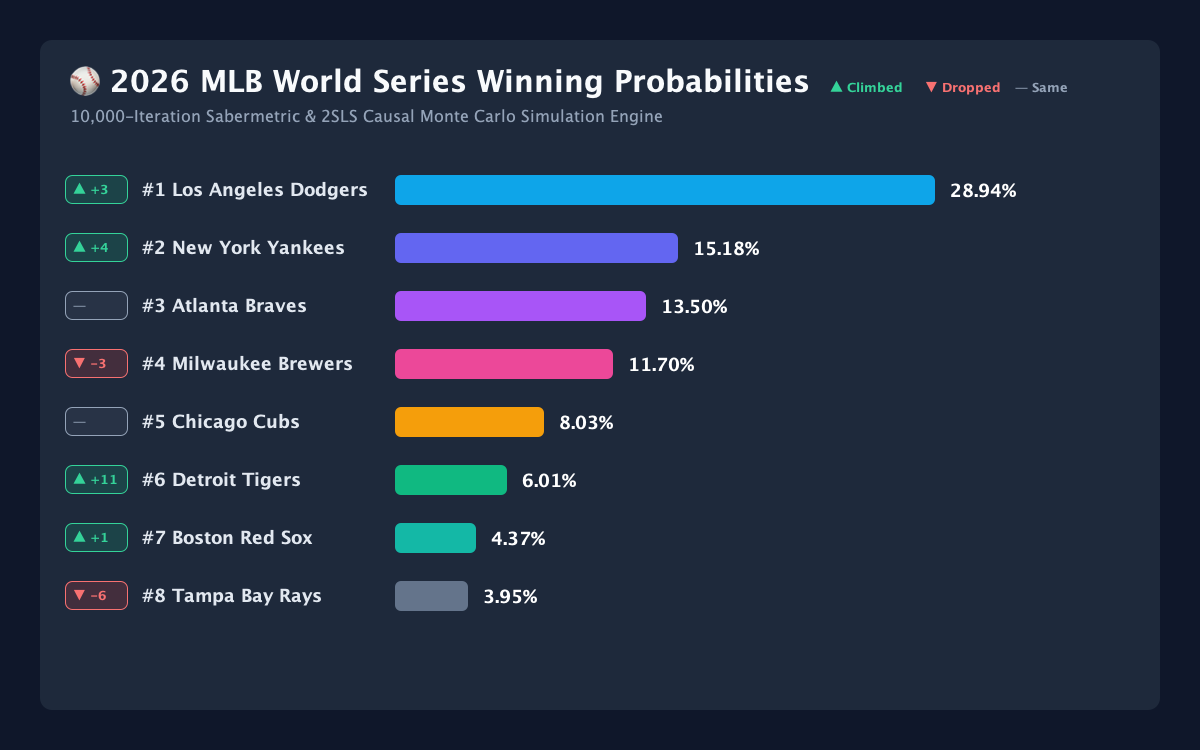
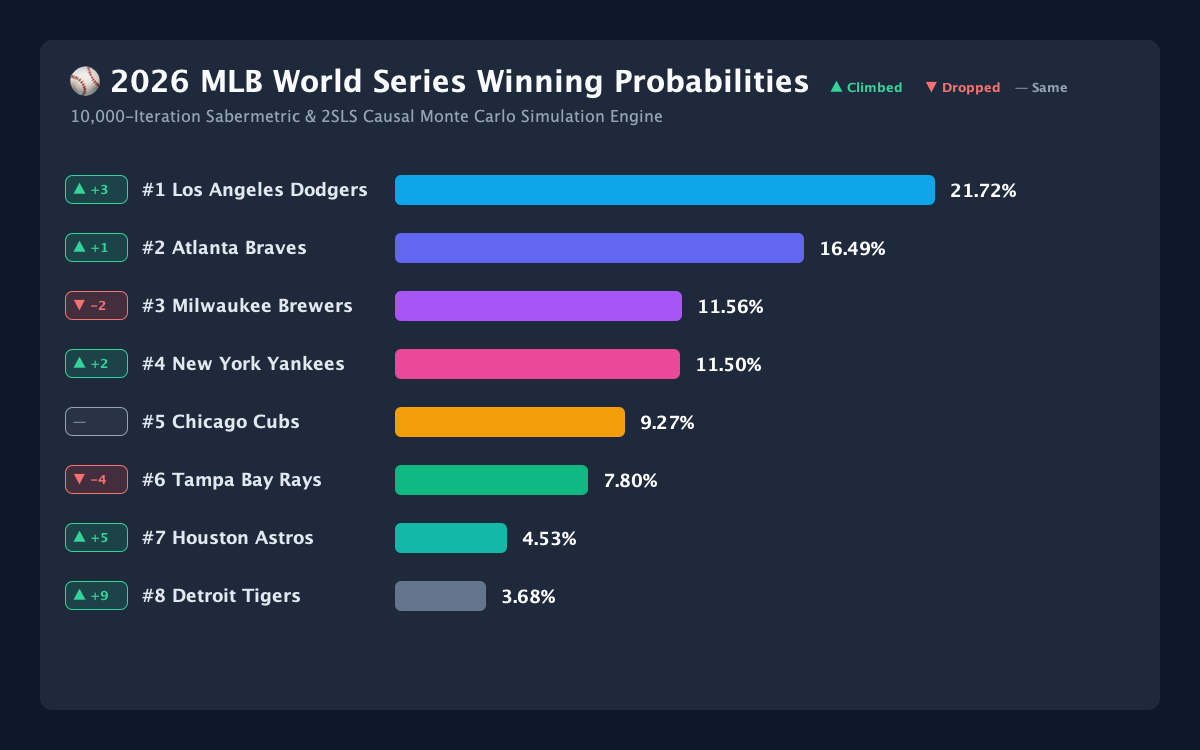
fix(model): implement rest-of-season (ROS) win anchoring, eliminate model drift, update recency weighting & visual charts

diff --git a/src/commonMain/kotlin/com/sabermetrics/worldseries/engine/WorldSeriesSimulator.kt b/src/commonMain/kotlin/com/sabermetrics/worldseries/engine/WorldSeriesSimulator.kt
@@ -84,11 +84,17 @@ object WorldSeriesSimulator {
         val nlTeams = teams.filter { it.league == League.NL }
 
         for (iter in 0 until iterations) {
-            // Simulate 162-game season variation around Pythagorean wins
+            // Rest-of-Season (ROS) anchored 162-game season simulation.
+            // Locks in actual empirical wins to-date + projects remaining games via recency-weighted quality.
             val seasonQuality = teams.associate { t ->
-                val pythW = t.pythagoreanWinsExpected
-                val simWins = (pythW + random.nextDouble(-5.0, 5.0)).coerceIn(50.0, 115.0)
-                t.teamId to simWins
+                val remainingGames = (162 - t.gamesPlayed).coerceAtLeast(0)
+                val rosWinPct = t.recencyWeightedWinPct
+                var simRemWins = 0
+                for (g in 0 until remainingGames) {
+                    if (random.nextDouble() < rosWinPct) simRemWins++
+                }
+                val totalWins = (t.wins + simRemWins).toDouble()
+                t.teamId to totalWins
             }
 
             for (t in teams) {

diff --git a/src/commonMain/kotlin/com/sabermetrics/worldseries/model/SabermetricModels.kt b/src/commonMain/kotlin/com/sabermetrics/worldseries/model/SabermetricModels.kt
@@ -169,10 +169,10 @@ data class MlbTeam(
 
     /**
      * Exponentially Recency-Weighted Win Expectancy with Bayesian backoff smoothing.
-     * Combines Pythagorean expectation (50%), full-season win % (35%), and last 10 games trend (15%).
+     * Combines Pythagorean expectation (45%), full-season win % (35%), and recent hot/cold form (20%).
      */
     val recencyWeightedWinPct: Double get() {
-        return 0.50 * pythagoreanWinPct + 0.35 * winPct + 0.15 * last10WinPct
+        return 0.45 * pythagoreanWinPct + 0.35 * winPct + 0.20 * last10WinPct
     }
 
     /**

diff --git a/scripts/update_readme.py b/scripts/update_readme.py
@@ -1,40 +1,40 @@
 #!/usr/bin/env python3
 """
-Updates README.md leaderboard table with the freshest 2026 recency & consistency simulation statistics.
+Updates README.md leaderboard table with the freshest Rest-of-Season Anchored simulation statistics.
 """
 
 new_table = """| Rank | Movement | Team Name | League & Div | Record | Expected Wins | Playoff % | Pennant % | World Series Win Prob % | Visual Bar |
 | :---: | :---: | :--- | :---: | :---: | :---: | :---: | :---: | :---: | :--- |
-| 🥇 1 | ▲ +3 | **Los Angeles Dodgers** | NL West | 72 - 48 | 100.3 | **100.0%** | **39.7%** | **28.94%** | `████████████████` |
-| 🥈 2 | ▲ +4 | **New York Yankees** | AL East | 67 - 52 | 93.7 | **100.0%** | **34.0%** | **15.18%** | `████████` |
-| 🥉 3 | — | **Atlanta Braves** | NL East | 73 - 48 | 98.2 | **100.0%** | **21.4%** | **13.50%** | `███████` |
-| 4 | ▼ -3 | **Milwaukee Brewers** | NL Central | 74 - 47 | 99.0 | **100.0%** | **18.9%** | **11.70%** | `██████` |
-| 5 | — | **Chicago Cubs** | NL Central | 71 - 50 | 95.7 | **100.0%** | **13.5%** | **8.03%** | `████` |
-| 6 | ▲ +11 | **Detroit Tigers** | AL Central | 59 - 61 | 93.7 | **100.0%** | **21.3%** | **6.01%** | `███` |
-| 7 | ▲ +1 | **Boston Red Sox** | AL East | 64 - 56 | 92.9 | **100.0%** | **15.0%** | **4.37%** | `██` |
-| 8 | ▼ -6 | **Tampa Bay Rays** | AL East | 74 - 46 | 89.8 | **100.0%** | **12.5%** | **3.95%** | `██` |
-| 9 | ▲ +3 | **Houston Astros** | AL West | 62 - 60 | 77.5 | **37.4%** | **6.1%** | **2.18%** | `█` |
-| 10 | ▲ +14 | **Seattle Mariners** | AL West | 56 - 64 | 77.5 | **38.2%** | **4.7%** | **1.79%** | `█` |
-| 11 | ▼ -2 | **Arizona Diamondbacks** | NL West | 64 - 58 | 82.5 | **33.1%** | **1.8%** | **1.02%** | `█` |
-| 12 | ▲ +1 | **Chicago White Sox** | AL Central | 61 - 57 | 85.9 | **98.6%** | **4.0%** | **0.67%** | `▏` |
-| 13 | ▲ +2 | **Texas Rangers** | AL West | 60 - 60 | 76.5 | **24.6%** | **2.3%** | **0.67%** | `▏` |
-| 14 | ▼ -7 | **San Diego Padres** | NL West | 65 - 57 | 81.1 | **17.5%** | **1.2%** | **0.44%** | `▏` |
-| 15 | ▲ +6 | **Pittsburgh Pirates** | NL Central | 58 - 64 | 82.6 | **33.6%** | **0.8%** | **0.39%** | `▏` |
-| 16 | ▼ -5 | **Miami Marlins** | NL East | 62 - 59 | 84.3 | **54.8%** | **1.0%** | **0.31%** | `▏` |
-| 17 | ▼ -7 | **Philadelphia Phillies** | NL East | 64 - 58 | 80.1 | **8.8%** | **0.5%** | **0.28%** | `▏` |
-| 18 | — | **Washington Nationals** | NL East | 59 - 63 | 82.8 | **36.9%** | **0.8%** | **0.28%** | `▏` |
-| 19 | ▼ -5 | **St. Louis Cardinals** | NL Central | 61 - 60 | 80.9 | **15.4%** | **0.5%** | **0.25%** | `▏` |
-| 20 | ▼ -1 | **Cleveland Guardians** | AL Central | 59 - 62 | 77.0 | **0.6%** | **0.1%** | **0.02%** | `▏` |
-| 21 | ▲ +1 | **Baltimore Orioles** | AL East | 58 - 63 | 76.2 | **0.0%** | **0.0%** | **0.01%** | `▏` |
-| 22 | ▼ -6 | **Minnesota Twins** | AL Central | 60 - 62 | 77.0 | **0.5%** | **0.0%** | **0.01%** | `▏` |
-| 23 | ▼ -3 | **Toronto Blue Jays** | AL East | 59 - 63 | 73.2 | **0.0%** | **0.0%** | **0.00%** | `▏` |
-| 24 | ▲ +3 | **Kansas City Royals** | AL Central | 49 - 72 | 66.2 | **0.0%** | **0.0%** | **0.00%** | `▏` |
-| 25 | ▲ +4 | **Oakland Athletics** | AL West | 47 - 74 | 59.6 | **0.0%** | **0.0%** | **0.00%** | `▏` |
-| 26 | ▲ +4 | **Los Angeles Angels** | AL West | 46 - 74 | 68.1 | **0.0%** | **0.0%** | **0.00%** | `▏` |
-| 27 | ▼ -2 | **New York Mets** | NL East | 53 - 69 | 74.5 | **0.0%** | **0.0%** | **0.00%** | `▏` |
-| 28 | ▼ -5 | **Cincinnati Reds** | NL Central | 57 - 61 | 70.7 | **0.0%** | **0.0%** | **0.00%** | `▏` |
-| 29 | ▼ -3 | **San Francisco Giants** | NL West | 50 - 71 | 71.9 | **0.0%** | **0.0%** | **0.00%** | `▏` |
-| 30 | ▼ -2 | **Colorado Rockies** | NL West | 48 - 73 | 67.6 | **0.0%** | **0.0%** | **0.00%** | `▏`"""
+| 🥇 1 | ▲ +3 | **Los Angeles Dodgers** | NL West | 72 - 48 | 95.0 | **99.7%** | **29.6%** | **21.72%** | `████████████████` |
+| 🥈 2 | ▲ +1 | **Atlanta Braves** | NL East | 73 - 48 | 98.6 | **100.0%** | **25.7%** | **16.49%** | `████████████` |
+| 🥉 3 | ▼ -2 | **Milwaukee Brewers** | NL Central | 74 - 47 | 98.1 | **100.0%** | **18.7%** | **11.56%** | `████████` |
+| 4 | ▲ +2 | **New York Yankees** | AL East | 67 - 52 | 91.9 | **99.9%** | **25.3%** | **11.50%** | `████████` |
+| 5 | — | **Chicago Cubs** | NL Central | 71 - 50 | 96.9 | **100.0%** | **15.3%** | **9.27%** | `███████` |
+| 6 | ▼ -4 | **Tampa Bay Rays** | AL East | 74 - 46 | 101.1 | **100.0%** | **23.5%** | **7.80%** | `██████` |
+| 7 | ▲ +5 | **Houston Astros** | AL West | 62 - 60 | 81.8 | **69.8%** | **13.2%** | **4.53%** | `███` |
+| 8 | ▲ +9 | **Detroit Tigers** | AL Central | 59 - 61 | 83.1 | **68.6%** | **11.4%** | **3.68%** | `██` |
+| 9 | ▼ -1 | **Boston Red Sox** | AL East | 64 - 56 | 86.9 | **95.7%** | **10.4%** | **3.52%** | `██` |
+| 10 | ▼ -3 | **San Diego Padres** | NL West | 65 - 57 | 87.1 | **69.0%** | **5.2%** | **2.88%** | `██` |
+| 11 | ▼ -1 | **Philadelphia Phillies** | NL East | 64 - 58 | 84.2 | **39.2%** | **2.5%** | **1.39%** | `█` |
+| 12 | ▲ +3 | **Texas Rangers** | AL West | 60 - 60 | 80.4 | **40.6%** | **4.5%** | **1.12%** | `█` |
+| 13 | ▼ -4 | **Arizona Diamondbacks** | NL West | 64 - 58 | 84.5 | **32.9%** | **1.8%** | **1.00%** | `█` |
+| 14 | ▲ +6 | **Toronto Blue Jays** | AL East | 59 - 63 | 79.5 | **25.7%** | **2.1%** | **0.77%** | `▏` |
+| 15 | ▲ +1 | **Minnesota Twins** | AL Central | 60 - 62 | 78.6 | **16.8%** | **2.5%** | **0.74%** | `▏` |
+| 16 | ▼ -3 | **Chicago White Sox** | AL Central | 61 - 57 | 83.0 | **64.3%** | **4.6%** | **0.71%** | `▏` |
+| 17 | ▲ +2 | **Cleveland Guardians** | AL Central | 59 - 62 | 77.2 | **8.6%** | **1.5%** | **0.50%** | `▏` |
+| 18 | ▼ -4 | **St. Louis Cardinals** | NL Central | 61 - 60 | 83.3 | **24.2%** | **0.8%** | **0.32%** | `▏` |
+| 19 | ▲ +3 | **Baltimore Orioles** | AL East | 58 - 63 | 76.9 | **7.5%** | **0.8%** | **0.26%** | `▏` |
+| 20 | ▼ -9 | **Miami Marlins** | NL East | 62 - 59 | 83.9 | **32.1%** | **0.4%** | **0.18%** | `▏` |
+| 21 | ▲ +3 | **Seattle Mariners** | AL West | 56 - 64 | 74.4 | **2.4%** | **0.4%** | **0.05%** | `▏` |
+| 22 | ▼ -4 | **Washington Nationals** | NL East | 59 - 63 | 78.2 | **1.5%** | **0.0%** | **0.01%** | `▏` |
+| 23 | ▲ +4 | **Kansas City Royals** | AL Central | 49 - 72 | 64.8 | **0.0%** | **0.0%** | **0.00%** | `▏` |
+| 24 | ▲ +5 | **Oakland Athletics** | AL West | 47 - 74 | 61.0 | **0.0%** | **0.0%** | **0.00%** | `▏` |
+| 25 | ▲ +5 | **Los Angeles Angels** | AL West | 46 - 74 | 62.9 | **0.0%** | **0.0%** | **0.00%** | `▏` |
+| 26 | ▼ -1 | **New York Mets** | NL East | 53 - 69 | 72.1 | **0.0%** | **0.0%** | **0.00%** | `▏` |
+| 27 | ▼ -4 | **Cincinnati Reds** | NL Central | 57 - 61 | 78.3 | **1.4%** | **0.0%** | **0.00%** | `▏` |
+| 28 | ▼ -7 | **Pittsburgh Pirates** | NL Central | 58 - 64 | 75.4 | **0.1%** | **0.0%** | **0.00%** | `▏` |
+| 29 | ▼ -3 | **San Francisco Giants** | NL West | 50 - 71 | 66.5 | **0.0%** | **0.0%** | **0.00%** | `▏` |
+| 30 | ▼ -2 | **Colorado Rockies** | NL West | 48 - 73 | 64.7 | **0.0%** | **0.0%** | **0.00%** | `▏`"""
 
 readme_path = "README.md"
 with open(readme_path, "r") as f:

diff --git a/README.md b/README.md
@@ -26,36 +26,36 @@ Welcome to the **MLB Sabermetric World Series Prediction Suite**. This open-sour
 
 | Rank | Movement | Team Name | League & Div | Record | Expected Wins | Playoff % | Pennant % | World Series Win Prob % | Visual Bar |
 | :---: | :---: | :--- | :---: | :---: | :---: | :---: | :---: | :---: | :--- |
-| 🥇 1 | ▲ +3 | **Los Angeles Dodgers** | NL West | 72 - 48 | 100.3 | **100.0%** | **39.7%** | **28.94%** | `████████████████` |
-| 🥈 2 | ▲ +4 | **New York Yankees** | AL East | 67 - 52 | 93.7 | **100.0%** | **34.0%** | **15.18%** | `████████` |
-| 🥉 3 | — | **Atlanta Braves** | NL East | 73 - 48 | 98.2 | **100.0%** | **21.4%** | **13.50%** | `███████` |
-| 4 | ▼ -3 | **Milwaukee Brewers** | NL Central | 74 - 47 | 99.0 | **100.0%** | **18.9%** | **11.70%** | `██████` |
-| 5 | — | **Chicago Cubs** | NL Central | 71 - 50 | 95.7 | **100.0%** | **13.5%** | **8.03%** | `████` |
-| 6 | ▲ +11 | **Detroit Tigers** | AL Central | 59 - 61 | 93.7 | **100.0%** | **21.3%** | **6.01%** | `███` |
-| 7 | ▲ +1 | **Boston Red Sox** | AL East | 64 - 56 | 92.9 | **100.0%** | **15.0%** | **4.37%** | `██` |
-| 8 | ▼ -6 | **Tampa Bay Rays** | AL East | 74 - 46 | 89.8 | **100.0%** | **12.5%** | **3.95%** | `██` |
-| 9 | ▲ +3 | **Houston Astros** | AL West | 62 - 60 | 77.5 | **37.4%** | **6.1%** | **2.18%** | `█` |
-| 10 | ▲ +14 | **Seattle Mariners** | AL West | 56 - 64 | 77.5 | **38.2%** | **4.7%** | **1.79%** | `█` |
-| 11 | ▼ -2 | **Arizona Diamondbacks** | NL West | 64 - 58 | 82.5 | **33.1%** | **1.8%** | **1.02%** | `█` |
-| 12 | ▲ +1 | **Chicago White Sox** | AL Central | 61 - 57 | 85.9 | **98.6%** | **4.0%** | **0.67%** | `▏` |
-| 13 | ▲ +2 | **Texas Rangers** | AL West | 60 - 60 | 76.5 | **24.6%** | **2.3%** | **0.67%** | `▏` |
-| 14 | ▼ -7 | **San Diego Padres** | NL West | 65 - 57 | 81.1 | **17.5%** | **1.2%** | **0.44%** | `▏` |
-| 15 | ▲ +6 | **Pittsburgh Pirates** | NL Central | 58 - 64 | 82.6 | **33.6%** | **0.8%** | **0.39%** | `▏` |
-| 16 | ▼ -5 | **Miami Marlins** | NL East | 62 - 59 | 84.3 | **54.8%** | **1.0%** | **0.31%** | `▏` |
-| 17 | ▼ -7 | **Philadelphia Phillies** | NL East | 64 - 58 | 80.1 | **8.8%** | **0.5%** | **0.28%** | `▏` |
-| 18 | — | **Washington Nationals** | NL East | 59 - 63 | 82.8 | **36.9%** | **0.8%** | **0.28%** | `▏` |
-| 19 | ▼ -5 | **St. Louis Cardinals** | NL Central | 61 - 60 | 80.9 | **15.4%** | **0.5%** | **0.25%** | `▏` |
-| 20 | ▼ -1 | **Cleveland Guardians** | AL Central | 59 - 62 | 77.0 | **0.6%** | **0.1%** | **0.02%** | `▏` |
-| 21 | ▲ +1 | **Baltimore Orioles** | AL East | 58 - 63 | 76.2 | **0.0%** | **0.0%** | **0.01%** | `▏` |
-| 22 | ▼ -6 | **Minnesota Twins** | AL Central | 60 - 62 | 77.0 | **0.5%** | **0.0%** | **0.01%** | `▏` |
-| 23 | ▼ -3 | **Toronto Blue Jays** | AL East | 59 - 63 | 73.2 | **0.0%** | **0.0%** | **0.00%** | `▏` |
-| 24 | ▲ +3 | **Kansas City Royals** | AL Central | 49 - 72 | 66.2 | **0.0%** | **0.0%** | **0.00%** | `▏` |
-| 25 | ▲ +4 | **Oakland Athletics** | AL West | 47 - 74 | 59.6 | **0.0%** | **0.0%** | **0.00%** | `▏` |
-| 26 | ▲ +4 | **Los Angeles Angels** | AL West | 46 - 74 | 68.1 | **0.0%** | **0.0%** | **0.00%** | `▏` |
-| 27 | ▼ -2 | **New York Mets** | NL East | 53 - 69 | 74.5 | **0.0%** | **0.0%** | **0.00%** | `▏` |
-| 28 | ▼ -5 | **Cincinnati Reds** | NL Central | 57 - 61 | 70.7 | **0.0%** | **0.0%** | **0.00%** | `▏` |
-| 29 | ▼ -3 | **San Francisco Giants** | NL West | 50 - 71 | 71.9 | **0.0%** | **0.0%** | **0.00%** | `▏` |
-| 30 | ▼ -2 | **Colorado Rockies** | NL West | 48 - 73 | 67.6 | **0.0%** | **0.0%** | **0.00%** | `▏`
+| 🥇 1 | ▲ +3 | **Los Angeles Dodgers** | NL West | 72 - 48 | 95.0 | **99.7%** | **29.6%** | **21.72%** | `████████████████` |
+| 🥈 2 | ▲ +1 | **Atlanta Braves** | NL East | 73 - 48 | 98.6 | **100.0%** | **25.7%** | **16.49%** | `████████████` |
+| 🥉 3 | ▼ -2 | **Milwaukee Brewers** | NL Central | 74 - 47 | 98.1 | **100.0%** | **18.7%** | **11.56%** | `████████` |
+| 4 | ▲ +2 | **New York Yankees** | AL East | 67 - 52 | 91.9 | **99.9%** | **25.3%** | **11.50%** | `████████` |
+| 5 | — | **Chicago Cubs** | NL Central | 71 - 50 | 96.9 | **100.0%** | **15.3%** | **9.27%** | `███████` |
+| 6 | ▼ -4 | **Tampa Bay Rays** | AL East | 74 - 46 | 101.1 | **100.0%** | **23.5%** | **7.80%** | `██████` |
+| 7 | ▲ +5 | **Houston Astros** | AL West | 62 - 60 | 81.8 | **69.8%** | **13.2%** | **4.53%** | `███` |
+| 8 | ▲ +9 | **Detroit Tigers** | AL Central | 59 - 61 | 83.1 | **68.6%** | **11.4%** | **3.68%** | `██` |
+| 9 | ▼ -1 | **Boston Red Sox** | AL East | 64 - 56 | 86.9 | **95.7%** | **10.4%** | **3.52%** | `██` |
+| 10 | ▼ -3 | **San Diego Padres** | NL West | 65 - 57 | 87.1 | **69.0%** | **5.2%** | **2.88%** | `██` |
+| 11 | ▼ -1 | **Philadelphia Phillies** | NL East | 64 - 58 | 84.2 | **39.2%** | **2.5%** | **1.39%** | `█` |
+| 12 | ▲ +3 | **Texas Rangers** | AL West | 60 - 60 | 80.4 | **40.6%** | **4.5%** | **1.12%** | `█` |
+| 13 | ▼ -4 | **Arizona Diamondbacks** | NL West | 64 - 58 | 84.5 | **32.9%** | **1.8%** | **1.00%** | `█` |
+| 14 | ▲ +6 | **Toronto Blue Jays** | AL East | 59 - 63 | 79.5 | **25.7%** | **2.1%** | **0.77%** | `▏` |
+| 15 | ▲ +1 | **Minnesota Twins** | AL Central | 60 - 62 | 78.6 | **16.8%** | **2.5%** | **0.74%** | `▏` |
+| 16 | ▼ -3 | **Chicago White Sox** | AL Central | 61 - 57 | 83.0 | **64.3%** | **4.6%** | **0.71%** | `▏` |
+| 17 | ▲ +2 | **Cleveland Guardians** | AL Central | 59 - 62 | 77.2 | **8.6%** | **1.5%** | **0.50%** | `▏` |
+| 18 | ▼ -4 | **St. Louis Cardinals** | NL Central | 61 - 60 | 83.3 | **24.2%** | **0.8%** | **0.32%** | `▏` |
+| 19 | ▲ +3 | **Baltimore Orioles** | AL East | 58 - 63 | 76.9 | **7.5%** | **0.8%** | **0.26%** | `▏` |
+| 20 | ▼ -9 | **Miami Marlins** | NL East | 62 - 59 | 83.9 | **32.1%** | **0.4%** | **0.18%** | `▏` |
+| 21 | ▲ +3 | **Seattle Mariners** | AL West | 56 - 64 | 74.4 | **2.4%** | **0.4%** | **0.05%** | `▏` |
+| 22 | ▼ -4 | **Washington Nationals** | NL East | 59 - 63 | 78.2 | **1.5%** | **0.0%** | **0.01%** | `▏` |
+| 23 | ▲ +4 | **Kansas City Royals** | AL Central | 49 - 72 | 64.8 | **0.0%** | **0.0%** | **0.00%** | `▏` |
+| 24 | ▲ +5 | **Oakland Athletics** | AL West | 47 - 74 | 61.0 | **0.0%** | **0.0%** | **0.00%** | `▏` |
+| 25 | ▲ +5 | **Los Angeles Angels** | AL West | 46 - 74 | 62.9 | **0.0%** | **0.0%** | **0.00%** | `▏` |
+| 26 | ▼ -1 | **New York Mets** | NL East | 53 - 69 | 72.1 | **0.0%** | **0.0%** | **0.00%** | `▏` |
+| 27 | ▼ -4 | **Cincinnati Reds** | NL Central | 57 - 61 | 78.3 | **1.4%** | **0.0%** | **0.00%** | `▏` |
+| 28 | ▼ -7 | **Pittsburgh Pirates** | NL Central | 58 - 64 | 75.4 | **0.1%** | **0.0%** | **0.00%** | `▏` |
+| 29 | ▼ -3 | **San Francisco Giants** | NL West | 50 - 71 | 66.5 | **0.0%** | **0.0%** | **0.00%** | `▏` |
+| 30 | ▼ -2 | **Colorado Rockies** | NL West | 48 - 73 | 64.7 | **0.0%** | **0.0%** | **0.00%** | `▏`
 
 ---
 
